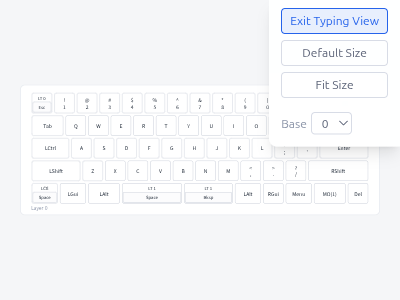
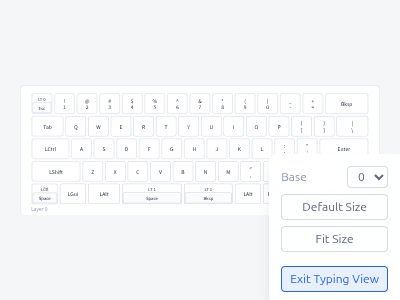
fix(ui): move view-only controls panel to bottom-right popup
- Move controls panel from top-right to bottom-right with upward slide animation
- Reorder items: Base Layer (top), Always on Top, Default/Fit Size, Exit (bottom)
- Right-align Base Layer select with justify-between layout
- Update documentation text and screenshots for new panel position

diff --git a/src/renderer/components/editors/TypingTestPane.tsx b/src/renderer/components/editors/TypingTestPane.tsx
@@ -316,24 +316,29 @@ export function TypingTestPane({
         >
           <span className="text-[10px] text-content-muted">{t('editor.typingTest.closeHint')}</span>
         </div>
-        <div ref={controlsBarRef} className="fixed right-0 top-0 z-50">
+        <div ref={controlsBarRef} className="fixed bottom-0 right-0 z-50">
           <div
             id="view-only-panel"
             role="menu"
-            className={`absolute right-0 top-0 flex flex-col gap-1.5 rounded-bl-lg bg-surface-alt/95 px-3 pt-2 pb-3 text-xs shadow-lg backdrop-blur-sm transition-all duration-200 ease-out ${viewOnlyControlsOpen ? 'translate-y-0 opacity-100' : 'pointer-events-none -translate-y-full overflow-hidden opacity-0'}`}
+            className={`absolute bottom-0 right-0 flex flex-col gap-1.5 rounded-tl-lg bg-surface-alt/95 px-3 pt-3 pb-2 text-xs shadow-lg backdrop-blur-sm transition-all duration-200 ease-out ${viewOnlyControlsOpen ? 'translate-y-0 opacity-100' : 'pointer-events-none translate-y-full overflow-hidden opacity-0'}`}
             onClick={(e) => e.stopPropagation()}
             {...(!viewOnlyControlsOpen && { inert: '' } as Record<string, string>)}
           >
-            {onViewOnlyChange && (
-              <button
-                type="button"
-                role="menuitem"
-                data-testid="view-only-toggle"
-                className="whitespace-nowrap rounded border border-accent bg-accent/10 px-2 py-1 text-accent transition-colors"
-                onClick={handleViewOnlyToggle}
-              >
-                {t('editor.typingTest.exitViewOnly')}
-              </button>
+            {layers > 1 && (
+              <div className="flex items-center justify-between gap-1">
+                <span className="text-content-muted">{t('editor.typingTest.baseLayerShort')}</span>
+                <select
+                  data-testid="base-layer-select"
+                  aria-label={t('editor.typingTest.baseLayer')}
+                  value={typingTest.baseLayer}
+                  onChange={(e) => typingTest.setBaseLayer(Number(e.target.value))}
+                  className="rounded border border-edge bg-surface-alt px-1.5 py-0.5 text-xs text-content-secondary"
+                >
+                  {Array.from({ length: layers }, (_, i) => (
+                    <option key={i} value={i}>{layerNames?.[i] || i}</option>
+                  ))}
+                </select>
+              </div>
             )}
             {alwaysOnTopSupported && onViewOnlyAlwaysOnTopChange && (
               <button
@@ -378,21 +383,16 @@ export function TypingTestPane({
             >
               {t('editor.typingTest.fitSize')}
             </button>
-            {layers > 1 && (
-              <div className="mt-2 flex items-center gap-1">
-                <span className="text-content-muted">{t('editor.typingTest.baseLayerShort')}</span>
-                <select
-                  data-testid="base-layer-select"
-                  aria-label={t('editor.typingTest.baseLayer')}
-                  value={typingTest.baseLayer}
-                  onChange={(e) => typingTest.setBaseLayer(Number(e.target.value))}
-                  className="rounded border border-edge bg-surface-alt px-1.5 py-0.5 text-xs text-content-secondary"
-                >
-                  {Array.from({ length: layers }, (_, i) => (
-                    <option key={i} value={i}>{layerNames?.[i] || i}</option>
-                  ))}
-                </select>
-              </div>
+            {onViewOnlyChange && (
+              <button
+                type="button"
+                role="menuitem"
+                data-testid="view-only-toggle"
+                className="mt-2 whitespace-nowrap rounded border border-accent bg-accent/10 px-2 py-1 text-accent transition-colors"
+                onClick={handleViewOnlyToggle}
+              >
+                {t('editor.typingTest.exitViewOnly')}
+              </button>
             )}
           </div>
         </div>

diff --git a/docs/OPERATION-GUIDE.md b/docs/OPERATION-GUIDE.md
@@ -562,13 +562,13 @@ Click the **Typing View** button in the status bar (visible when Typing Test is 
 
 ![View-Only — Controls](screenshots/view-only-controls.png)
 
-Click anywhere on the keyboard area to toggle the controls panel (top-right dropdown):
+Click anywhere on the keyboard area to toggle the controls panel (bottom-right popup):
 
-- **Exit Typing View**: Return to the full editor
+- **Base**: Select which layer to display (when the keyboard has multiple layers)
 - **top**: Keep the window above other windows (always-on-top; not available on Wayland)
 - **Default Size**: Reset the window to its default calculated size
 - **Fit Size**: Adjust the window height to match the current width while preserving the aspect ratio
-- **Base**: Select which layer to display (when the keyboard has multiple layers)
+- **Exit Typing View**: Return to the full editor
 
 Press Escape or click the keyboard area again to close the panel. A hint text appears at the bottom when hovering over the window. The window size and always-on-top preference are saved per keyboard.
 
